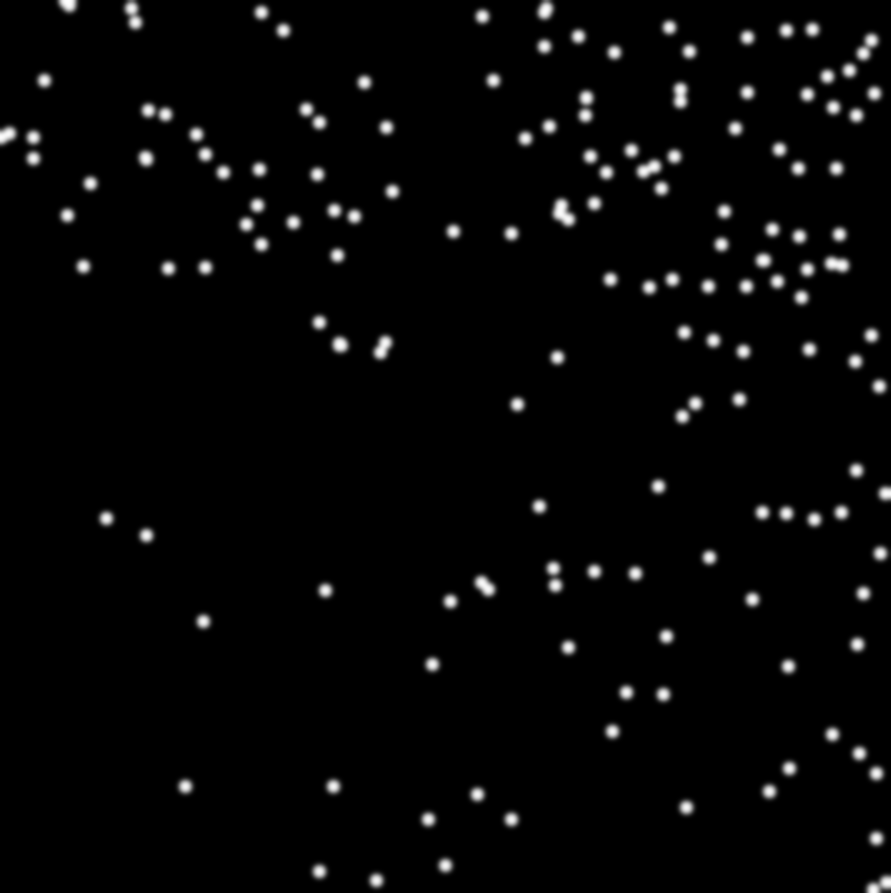
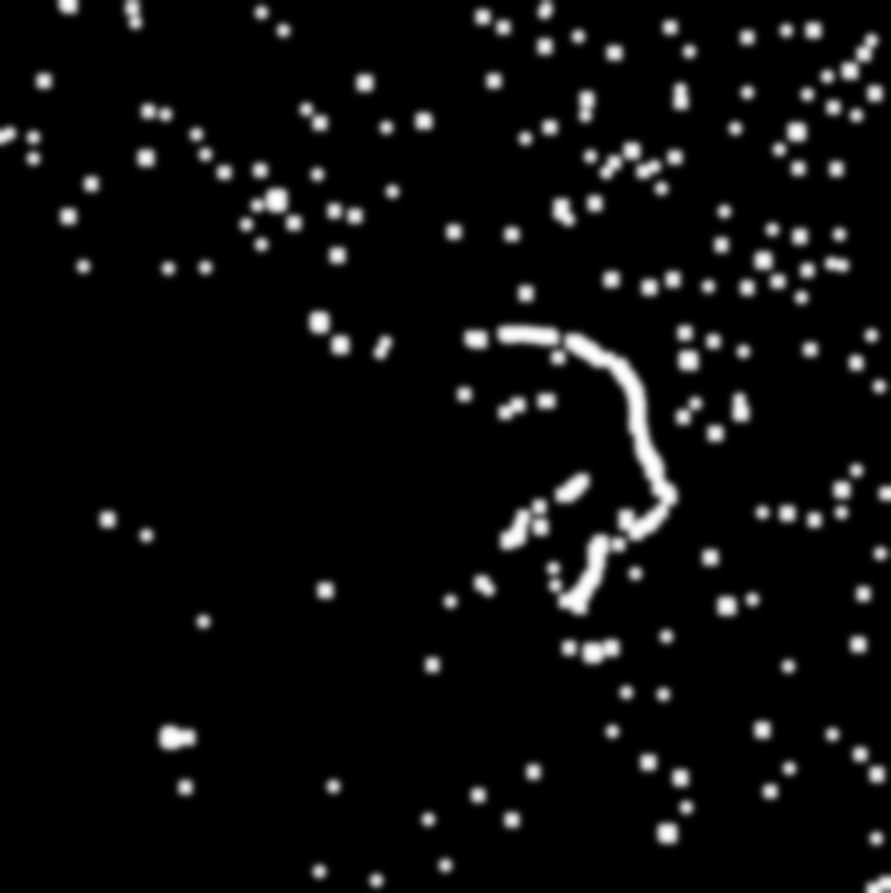
update etape2
amélioration du strarless

diff --git a/etape2.py b/etape2.py
@@ -6,78 +6,110 @@ import matplotlib.pyplot as plt
 import cv2 as cv
 import numpy as np
 
+# ===============================
+# 1. Chargement FITS
+# ===============================
 fits_file = './examples/HorseHead.fits'
 hdul = fits.open(fits_file)
 data = hdul[0].data.astype(np.float32)
 hdul.close()
 
-# Normalisation [0,255]
+# ===============================
+# 2. Normalisation
+# ===============================
 img_norm = cv.normalize(data, None, 0, 255, cv.NORM_MINMAX)
 img_uint8 = img_norm.astype(np.uint8)
-
-# Image originale float
 Ioriginal = img_uint8.astype(np.float32)
 
-# Statistiques du fond de ciel
+# ===============================
+# 3. Statistiques fond de ciel
+# ===============================
 mean, median, std = sigma_clipped_stats(data, sigma=3.0)
 
-# Détecteur d'étoiles
+# ===============================
+# 4. MASQUE DAO (petites étoiles)
+# ===============================
 daofind = DAOStarFinder(
-    fwhm=3.0,           # taille moyenne des étoiles
-    threshold=1.0 * std # seuil de détection
+    fwhm=3.0,
+    threshold=1.0 * std
 )
 
 sources = daofind(data - median)
 
-# Création du masque vide
-mask = np.zeros(img_uint8.shape, dtype=np.uint8)
+mask_dao = np.zeros(img_uint8.shape, dtype=np.uint8)
 
-# Dessin des étoiles dans le masque
 if sources is not None:
     for star in sources:
         x = int(star['xcentroid'])
         y = int(star['ycentroid'])
-        cv.circle(mask, (x, y), 5, 255, -1)
+        cv.circle(mask_dao, (x, y), 5, 255, -1)
 
-# Nettoyage léger
-kernel = np.ones((3, 3), np.uint8)
-mask = cv.dilate(mask, kernel, iterations=1)
+mask_dao = cv.dilate(mask_dao, np.ones((3,3),np.uint8), iterations=1)
 
-# Flou pour transitions douces
-mask_blur = cv.GaussianBlur(mask, (15, 15), 0)
+# ===============================
+# 5. MASQUE ADAPTATIF (grosses étoiles)
+# ===============================
+mask_adapt = cv.adaptiveThreshold(
+    img_uint8, 255,
+    cv.ADAPTIVE_THRESH_GAUSSIAN_C,
+    cv.THRESH_BINARY,
+    31, -5
+)
 
-# Masque normalisé [0,1]
-M = mask_blur.astype(np.float32) / 255.0
+mask_adapt = cv.morphologyEx(
+    mask_adapt,
+    cv.MORPH_OPEN,
+    np.ones((5,5),np.uint8)
+)
 
-# Image érodée (réduction des étoiles)
-kernel_erode = np.ones((3, 3), np.uint8)
-Ierode = cv.erode(img_uint8, kernel_erode, iterations=3).astype(np.float32)
+mask_adapt = cv.dilate(mask_adapt, np.ones((5,5),np.uint8), iterations=2)
 
-# Image recomposée finale
-Ifinal = (M * Ierode) + ((1 - M) * Ioriginal)
-Ifinal = np.clip(Ifinal, 0, 255).astype(np.uint8)
+# ===============================
+# 6. FUSION DES MASQUES
+# ===============================
+mask_combined = cv.bitwise_or(mask_dao, mask_adapt)
 
-# (a) Étoiles fortement visibles
-stars_only = (M * Ioriginal)
-stars_only = np.clip(stars_only, 0, 255).astype(np.uint8)
+# Flou des masques
+mask_dao_blur = cv.GaussianBlur(mask_dao, (21,21), 0)
+mask_adapt_blur = cv.GaussianBlur(mask_adapt, (21,21), 0)
+mask_combined_blur = cv.GaussianBlur(mask_combined, (21,21), 0)
 
-# (b) Image star-less
-starless = Ierode
-starless = np.clip(starless, 0, 255).astype(np.uint8)
+M_dao = mask_dao_blur.astype(np.float32) / 255.0
+M_adapt = mask_adapt_blur.astype(np.float32) / 255.0
+M_combined = mask_combined_blur.astype(np.float32) / 255.0
 
-# (c) Masque d’étoiles
-mask_out = mask_blur
+# ===============================
+# 7. IMAGE ÉRODÉE
+# ===============================
+kernel_erode = np.ones((3,3), np.uint8)
+Ierode = cv.erode(img_uint8, kernel_erode, iterations=6).astype(np.float32)
 
-# (d) Image recomposée
-final_out = Ifinal
+# ===============================
+# 8. IMAGES FINALES
+# ===============================
+# DAO seul
+Ifinal_dao = (M_dao * Ierode) + ((1 - M_dao) * Ioriginal)
+Ifinal_dao = np.clip(Ifinal_dao, 0, 255).astype(np.uint8)
 
-# Sauvegardes 
-cv.imwrite('./results/original.png', img_uint8)
-cv.imwrite('./results/b_starless.png', starless)
-cv.imwrite('./results/c_star_mask.png', mask_out)
-cv.imwrite('./results/d_final_recomposed.png', final_out)
+# Adaptive seul
+Ifinal_adapt = (M_adapt * Ierode) + ((1 - M_adapt) * Ioriginal)
+Ifinal_adapt = np.clip(Ifinal_adapt, 0, 255).astype(np.uint8)
 
-# Affichage
+# Combiné (STAR-LESS FINAL)
+Ifinal_combined = (M_combined * Ierode) + ((1 - M_combined) * Ioriginal)
+Ifinal_combined = np.clip(Ifinal_combined, 0, 255).astype(np.uint8)
+
+# ===============================
+# 9. SAUVEGARDE DES RÉSULTATS
+# ===============================
+cv.imwrite('./results/a_original.png', img_uint8)
+cv.imwrite('./results/b_dao_only.png', Ifinal_dao)
+cv.imwrite('./results/c_adaptive_only.png', Ifinal_adapt)
+cv.imwrite('./results/d_starless_final.png', Ifinal_combined)
+
+# ===============================
+# 10. AFFICHAGE FINAL
+# ===============================
 plt.figure(figsize=(18, 10))
 
 plt.subplot(2, 2, 1)
@@ -86,18 +118,18 @@ plt.imshow(img_uint8, cmap='gray')
 plt.axis('off')
 
 plt.subplot(2, 2, 2)
-plt.title("(b) Image star-less")
-plt.imshow(starless, cmap='gray')
+plt.title("(b) Réduction étoiles – DAO seul")
+plt.imshow(Ifinal_dao, cmap='gray')
 plt.axis('off')
 
 plt.subplot(2, 2, 3)
-plt.title("(c) Masque d’étoiles")
-plt.imshow(M, cmap='gray')
+plt.title("(c) Réduction étoiles – Adaptive threshold seul")
+plt.imshow(Ifinal_adapt, cmap='gray')
 plt.axis('off')
 
 plt.subplot(2, 2, 4)
-plt.title("(d) Image recomposée finale")
-plt.imshow(final_out, cmap='gray')
+plt.title("(d) Image star-less finale (filtres combinés)")
+plt.imshow(Ifinal_combined, cmap='gray')
 plt.axis('off')
 
 plt.tight_layout()
